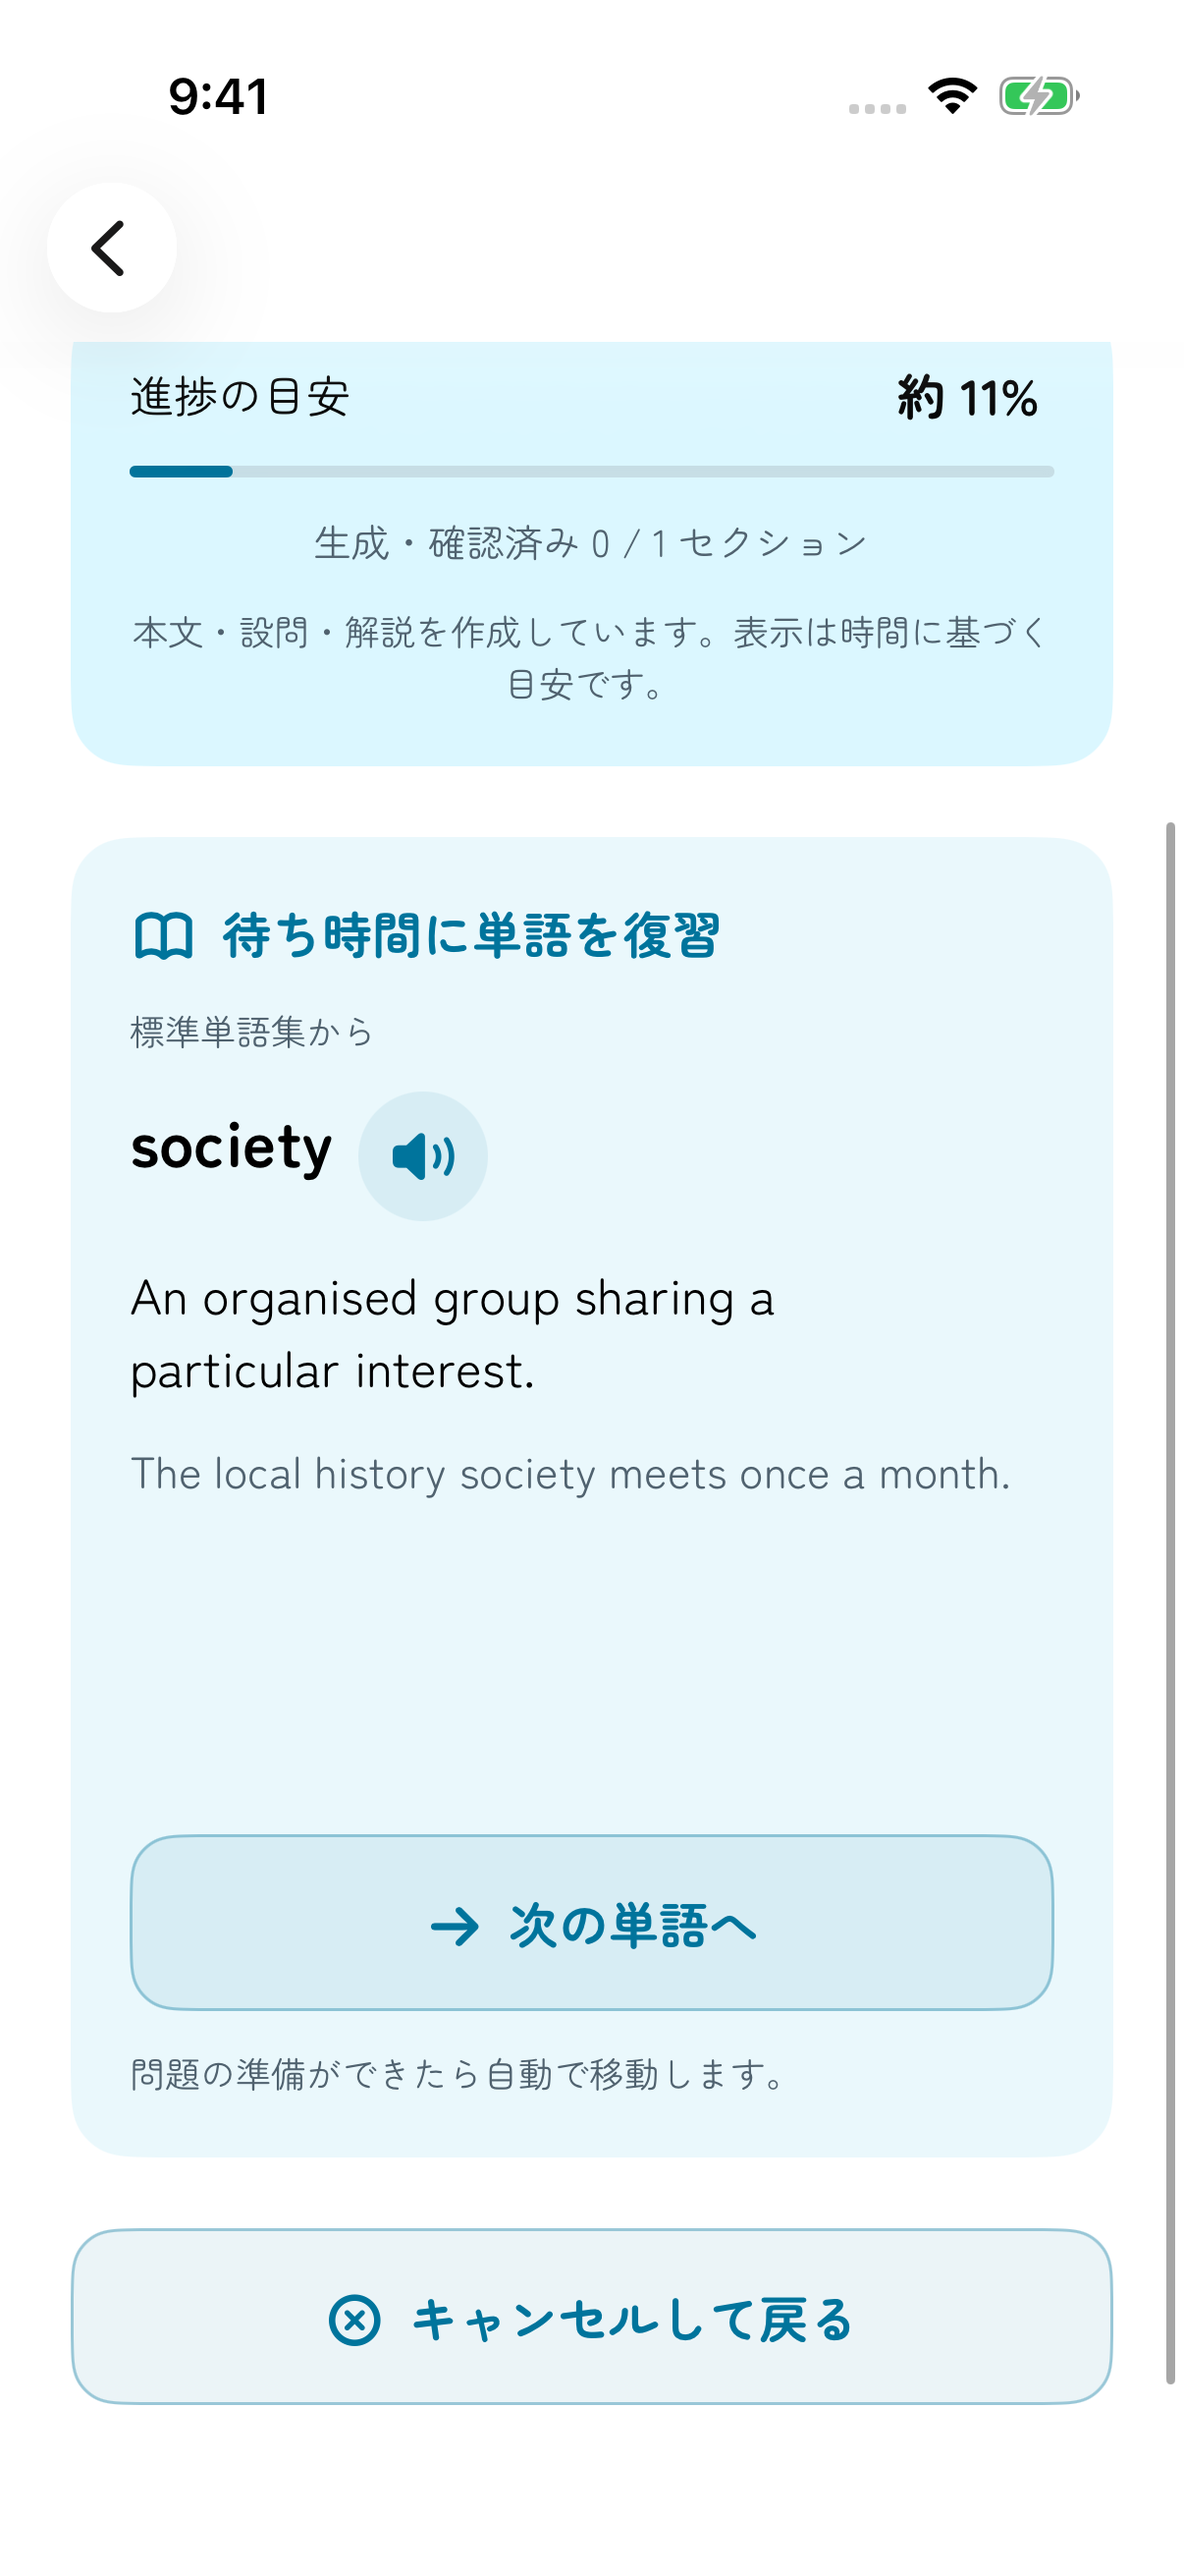
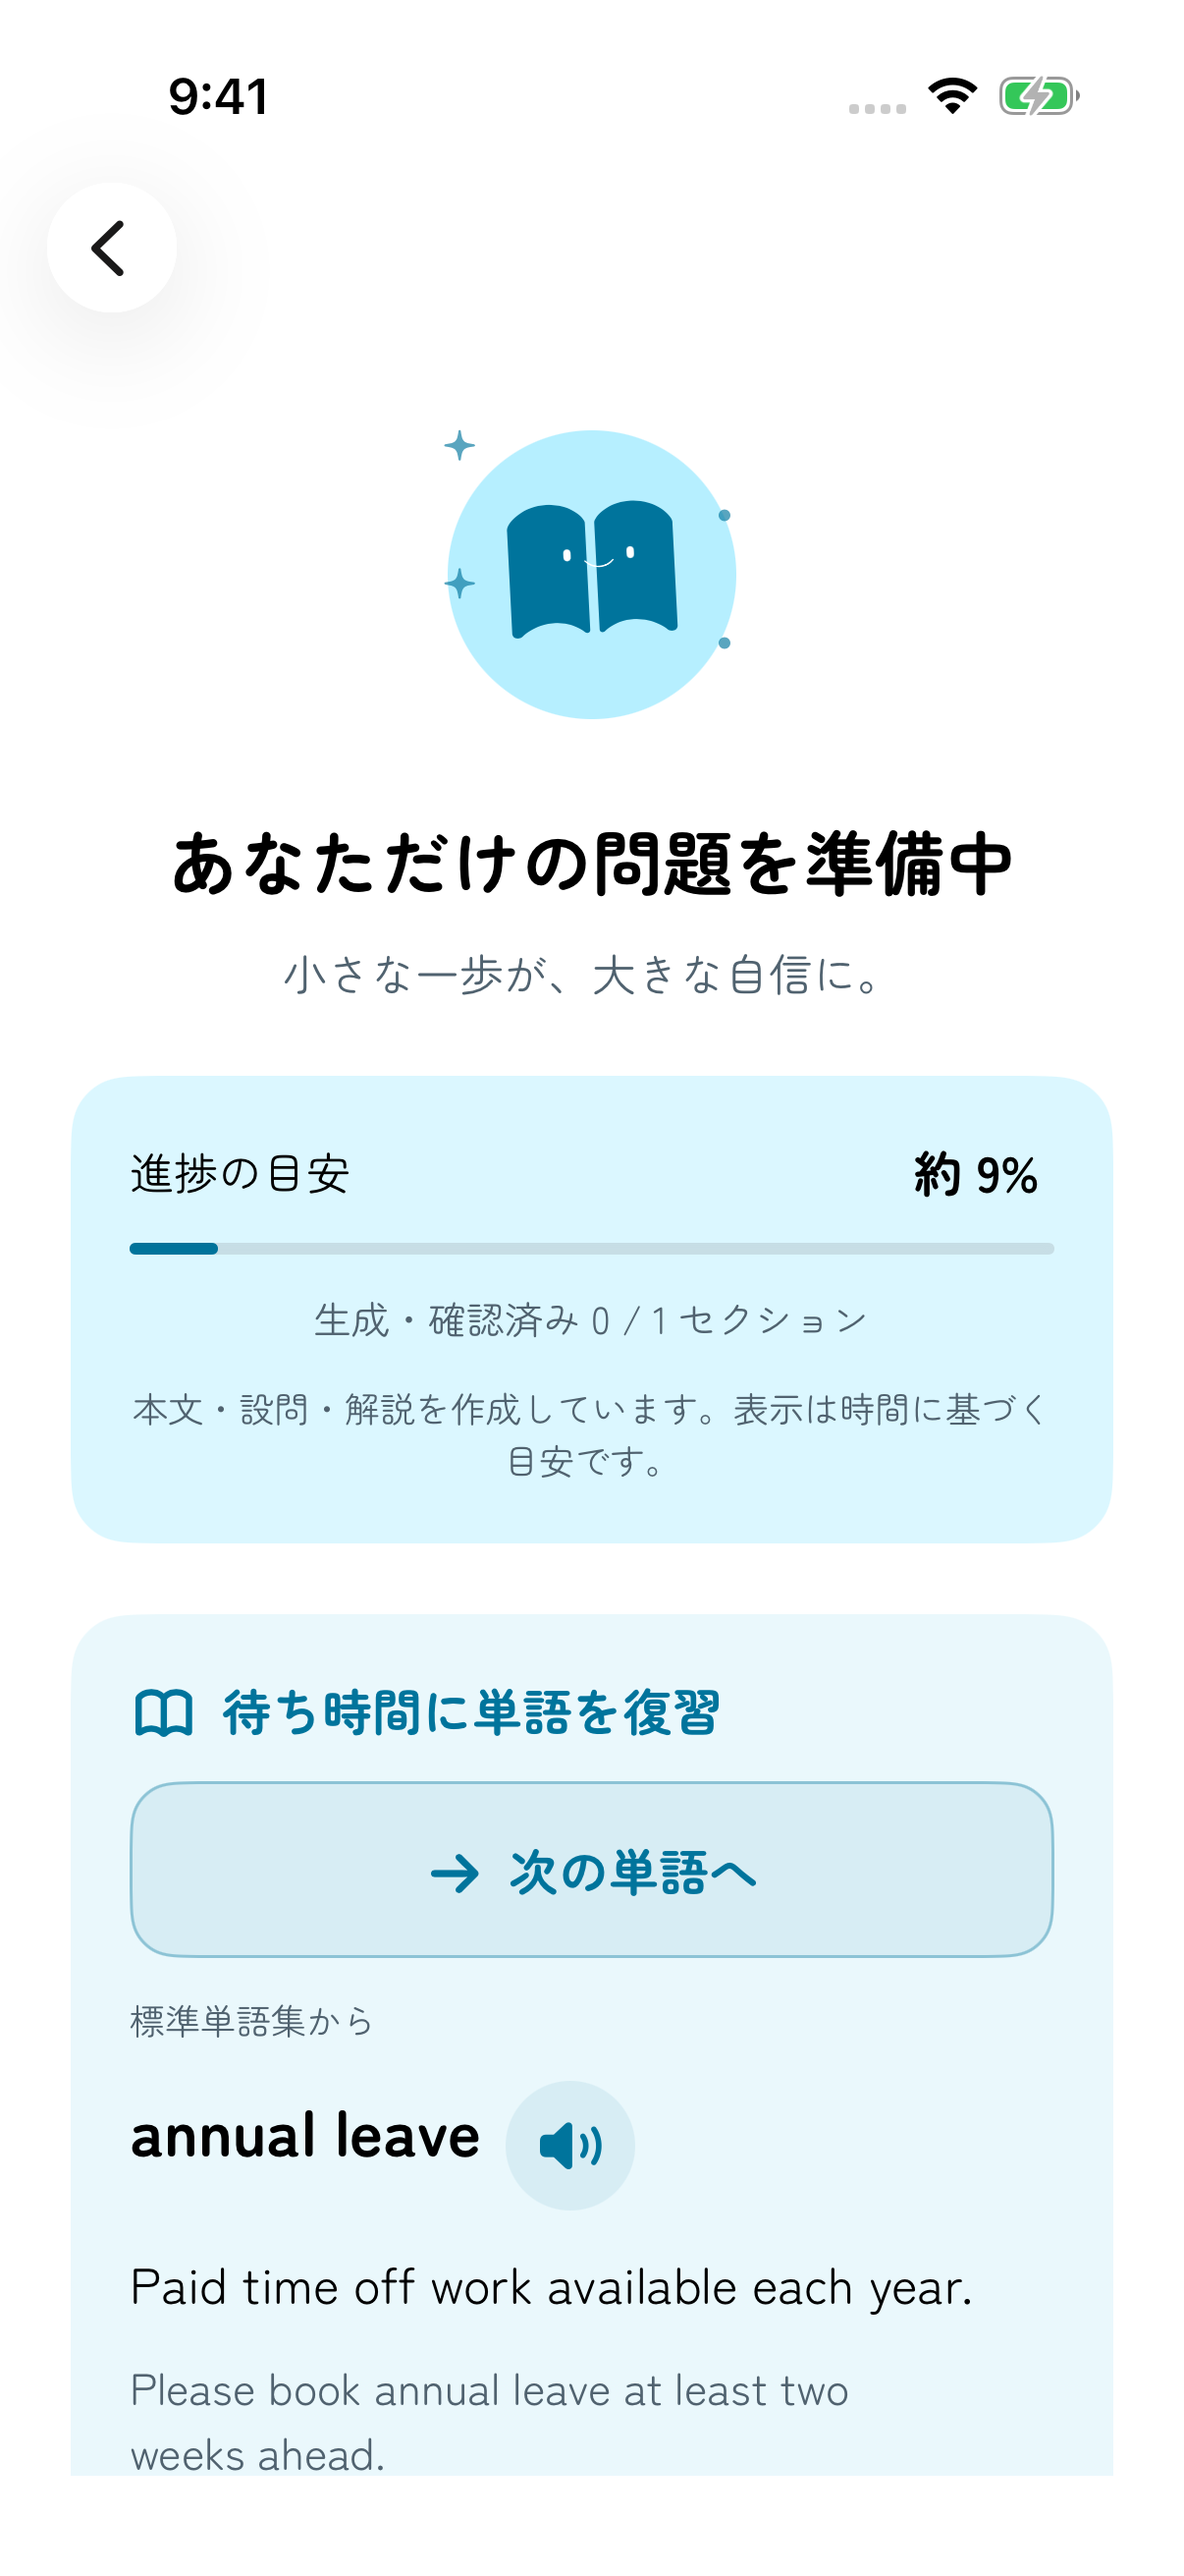
Fit waiting vocabulary cards to their content

diff --git a/Sources/Features/Home/StudyLibrary.swift b/Sources/Features/Home/StudyLibrary.swift
@@ -181,7 +181,6 @@ struct WaitingVocabularyView: View {
     let words: [SavedExpression]
     @State private var cards: [VocabularyCard] = []
     @State private var index = 0
-    @ScaledMetric(relativeTo: .body) private var textAreaHeight = 240
     @StateObject private var pronunciation = WordPronouncer()
     init(words: [SavedExpression]) {
         self.words = words
@@ -193,25 +192,25 @@ struct WaitingVocabularyView: View {
                 VStack(alignment: .leading, spacing: 12) {
                     Label(String(localized: "Vocabulary while you wait"), systemImage: "book")
                         .font(StudyTypography.headline).foregroundStyle(StudyColors.accent)
+                    // Place the action before variable-length content, so the card can
+                    // fit its text without moving the action as words change.
+                    Button(String(localized: "Next word"), systemImage: "arrow.right") { pronunciation.stop(); index = (index + 1) % cards.count }
+                        .buttonStyle(StudySecondaryButtonStyle()).accessibilityIdentifier("generation.nextWord")
                     Text(String(localized: card.personal ? "From your saved words" : "From the word library"))
                         .accessibilityIdentifier(card.personal ? "generation.source.personal" : "generation.source.bundled")
                         .font(StudyTypography.caption).foregroundStyle(StudyColors.secondaryText)
-                    // Keep controls outside a stable-height viewport so text wrapping
-                    // cannot move the next-word hit target under the user's finger.
-                    ScrollView {
-                        VStack(alignment: .leading, spacing: 12) {
-                            HStack(alignment: .top, spacing: 8) {
-                                Text(card.word).font(StudyTypography.heading).accessibilityIdentifier("generation.word")
-                                WordPronunciationButton(word: card.word, pronunciation: pronunciation)
-                            }
-                            Text(card.meaning.isEmpty ? String(localized: "No saved meaning") : card.meaning)
-                                .font(StudyTypography.body).accessibilityIdentifier("generation.meaning")
+                    VStack(alignment: .leading, spacing: 12) {
+                        HStack(alignment: .top, spacing: 8) {
+                            Text(card.word).font(StudyTypography.heading).accessibilityIdentifier("generation.word")
+                            WordPronunciationButton(word: card.word, pronunciation: pronunciation)
+                        }
+                        Text(card.meaning.isEmpty ? String(localized: "No saved meaning") : card.meaning)
+                            .font(StudyTypography.body).accessibilityIdentifier("generation.meaning")
+                        if !card.example.isEmpty {
                             Text(card.example).font(StudyTypography.subheadline).foregroundStyle(StudyColors.secondaryText)
-                        }.frame(maxWidth: .infinity, alignment: .leading)
-                    }.frame(height: textAreaHeight)
-                        .id(card.id)
-                    Button(String(localized: "Next word"), systemImage: "arrow.right") { pronunciation.stop(); index = (index + 1) % cards.count }
-                        .buttonStyle(StudySecondaryButtonStyle()).accessibilityIdentifier("generation.nextWord")
+                        }
+                    }.frame(maxWidth: .infinity, alignment: .leading)
+                        .fixedSize(horizontal: false, vertical: true)
                     Text(String(localized: "Your practice opens automatically when ready."))
                         .font(StudyTypography.caption).foregroundStyle(StudyColors.secondaryText)
                 }.padding(20).frame(maxWidth: .infinity, alignment: .leading)

diff --git a/README.md b/README.md
@@ -205,7 +205,7 @@ Choose a score-based level, then search words or definitions. Flashcard entry po
 
 The small speaker button beside each word (**Hear pronunciation** for VoiceOver) uses an installed English system voice, preferring British English. It does not call a paid API. Playback stops when changing cards, leaving the screen or moving the app to the background. Offline playback depends on an English voice being installed on the device.
 
-During exercise generation, a card immediately displays a **word, meaning and example**. Your saved words appear first in random order, followed by shuffled General Training words. Expressions are deduplicated across both collections, so even one saved word advances to a different word. Saved expressions without a definition are included with a clear “No saved meaning” label. The word and example area keeps a stable height (scaled with Dynamic Type); longer content scrolls inside it, keeping the **Next word** button in place. **Next word** and pronunciation are optional; there is no quiz or additional API request. The exercise still opens after the loading indicator reaches 100%.
+During exercise generation, a card immediately displays a **word, meaning and example**. Your saved words appear first in random order, followed by shuffled General Training words. Expressions are deduplicated across both collections, so even one saved word advances to a different word. Saved expressions without a definition are included with a clear “No saved meaning” label. The card fits its word, meaning and example without reserving empty space. **Next word** sits above the changing content to keep the control stable; longer text scrolls with the page. **Next word** and pronunciation are optional; there is no quiz or additional API request. The exercise still opens after the loading indicator reaches 100%.
 
 The editable source is in [Scripts/Vocabulary](Scripts/Vocabulary); rebuild and validate all 1,000 entries with `python3 Scripts/build-vocabulary.py`. CI checks that this reproduces the bundled JSON.
 
